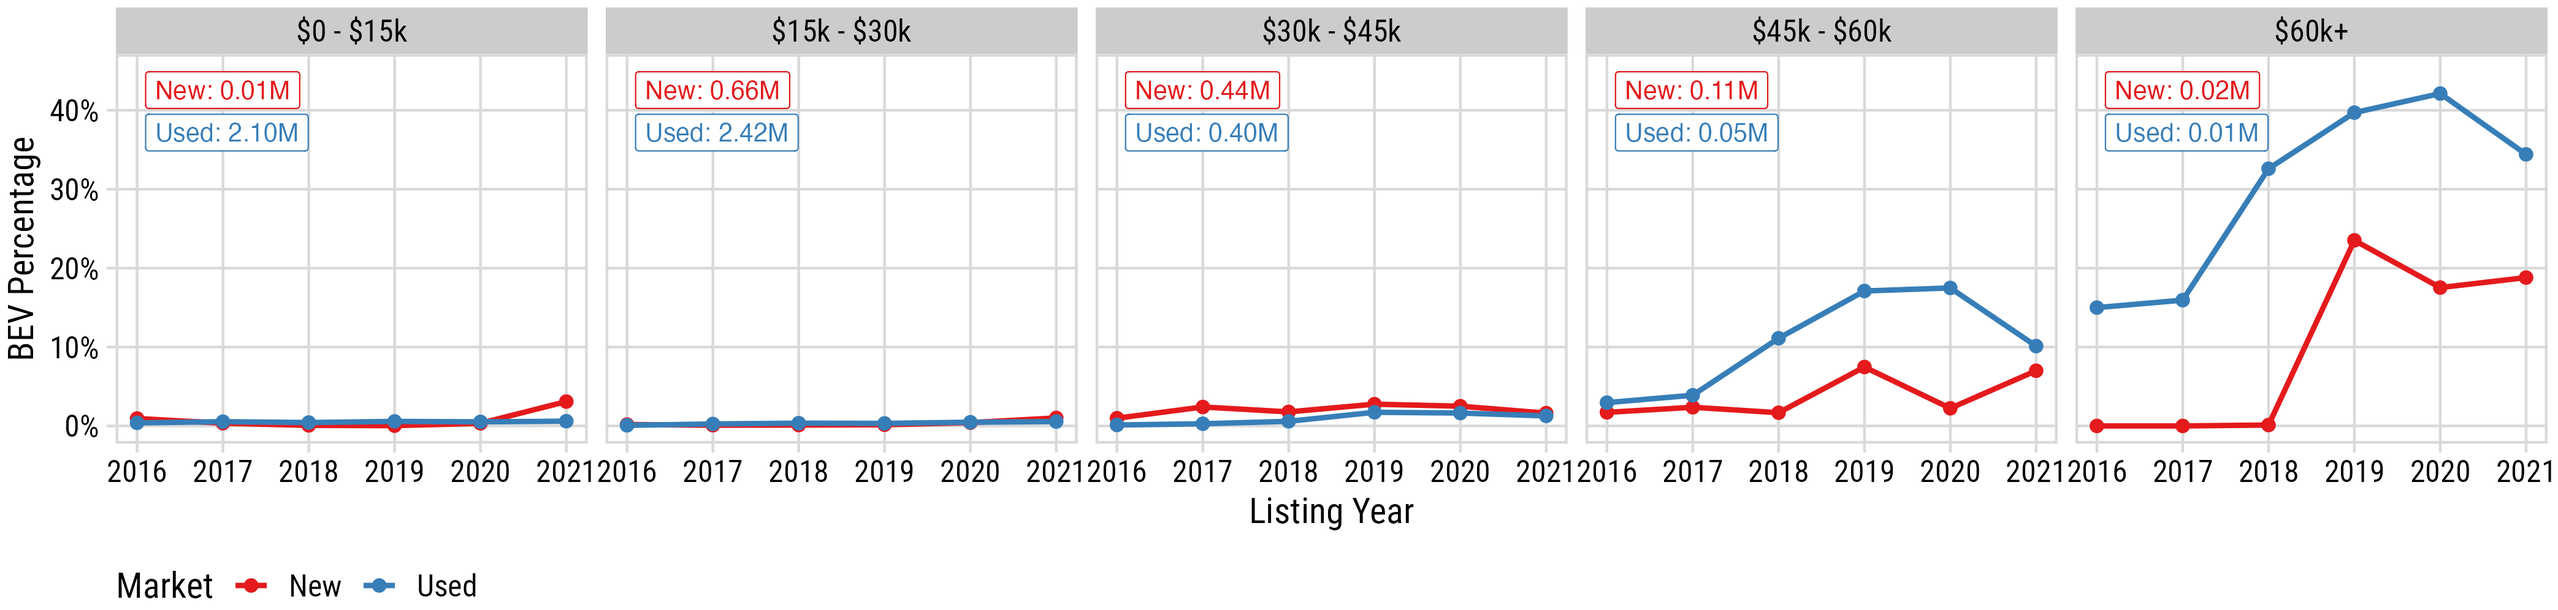
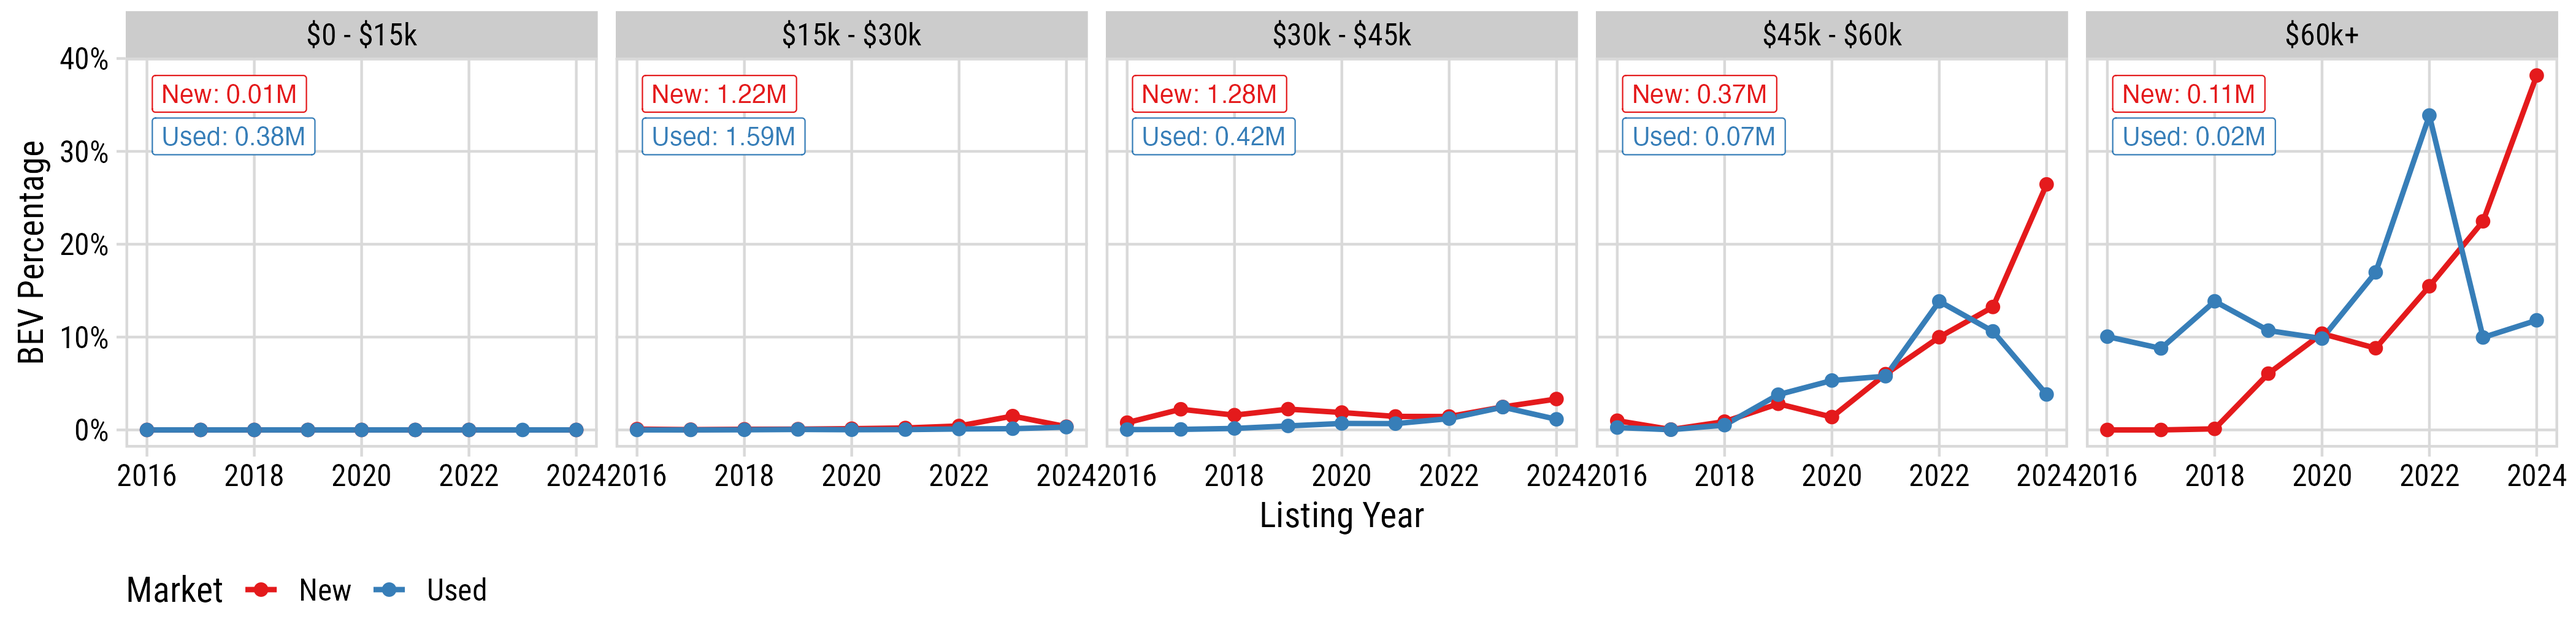
update bev_percent chart

Changed region(s): [[0.0, 0.0, 0.9971, 0.8715], [0.0312, 0.9337, 0.187, 0.996]]

diff --git a/index.html b/index.html
@@ -304,7 +304,7 @@ background-color: #fff
 
 &lt;br&gt;
 
-.font120[In 2021, BEVs just 1.1% of new and 0.6% of used listings under $45,000]
+.font120[In 2024, BEVs just 1.8% of new and 0.4% of used listings under $45,000]
 
 &lt;center&gt;
 &lt;img src="images/bev_percent_listings_edit.png" width=100%&gt;
